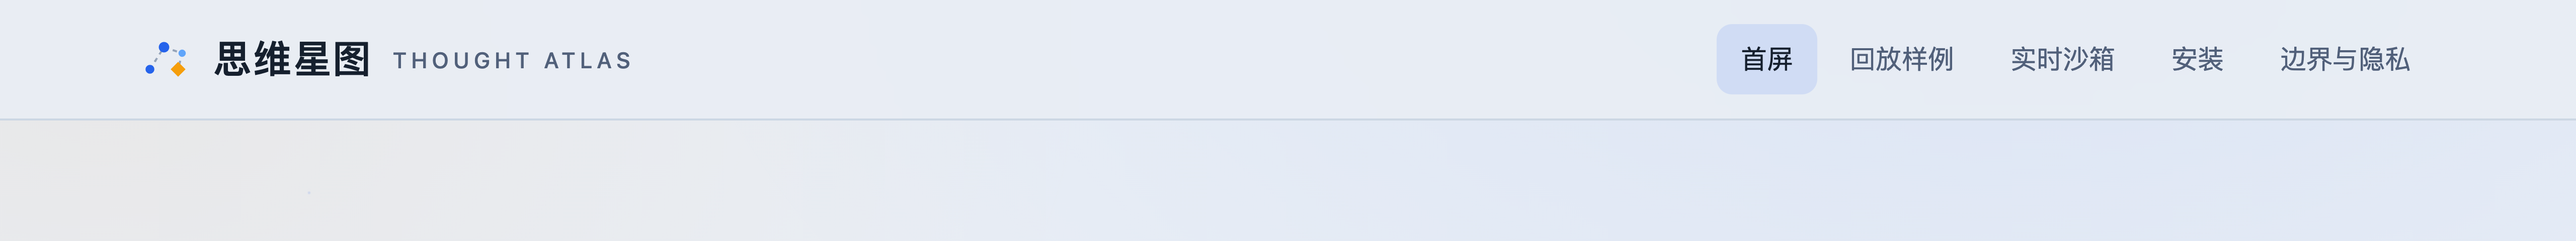
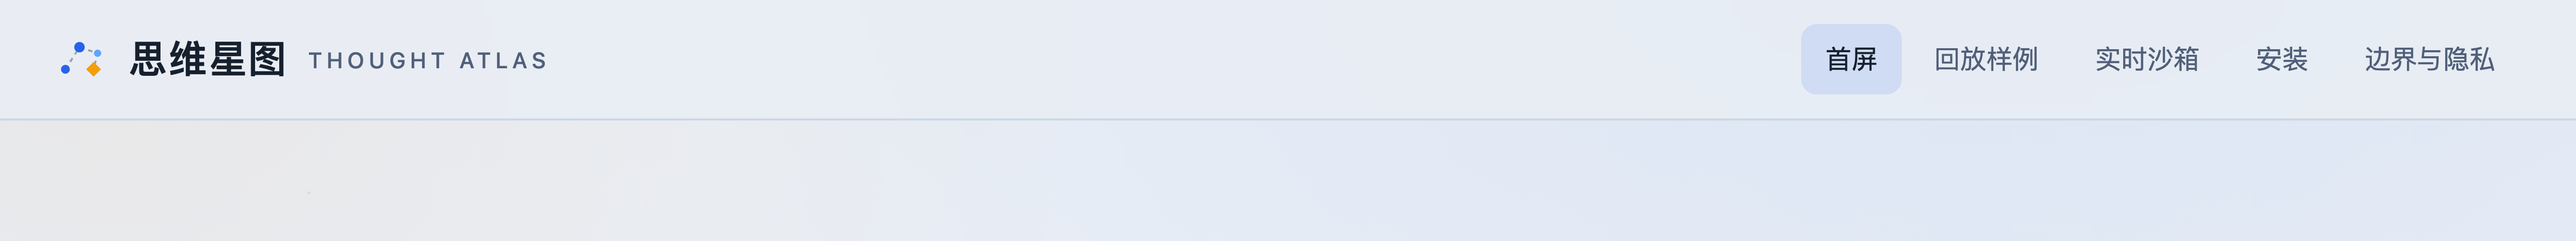
头部改通栏：品牌与导航贴边 28px，宽屏不再大留白
正文容器保持居中不变；移动端 14px 不变；1280/1500/390 复验无溢出

Changed region(s): [[0.6562, 0.1875, 0.9688, 0.3125], [0.0312, 0.1562, 0.25, 0.3125]]

diff --git a/site/web/site.css b/site/web/site.css
@@ -110,9 +110,9 @@ kbd {
 }
 
 .site-header-inner {
-  max-width: var(--maxw);
-  margin: 0 auto;
-  padding: calc(12px * var(--site-space)) calc(20px * var(--site-space));
+  max-width: none;
+  margin: 0;
+  padding: calc(12px * var(--site-space)) calc(28px * var(--site-space));
   display: flex;
   align-items: center;
   gap: calc(20px * var(--site-space));

diff --git a/CHANGELOG.md b/CHANGELOG.md
@@ -7,6 +7,7 @@
 - 回放页地图左侧新增同步对话列：复用沙箱 bubble 样式，逐轮展示「你 / AI」原文，随时间轴推进、最新轮高亮、自动滚到当前轮；0 轮显示引导提示
 - 回放页「评委路线小提示」改为面向同学的小提示；清理 route-grid / entry-grid 样式
 - 品牌头升级：「思维星图」16px → 19px；12px 渐变圆点换成 26px 星座徽标（蓝节点 + 虚线影响边 + 琥珀转变菱形，CSS data-URI SVG，五页共用）
+- 头部改通栏：左右 28px 贴边（原居中容器在宽屏下左侧留白过大），正文容器不动；移动端 14px 不变
 
 ### 验证
 - typecheck 干净；125/125 单测；build:site 通过
